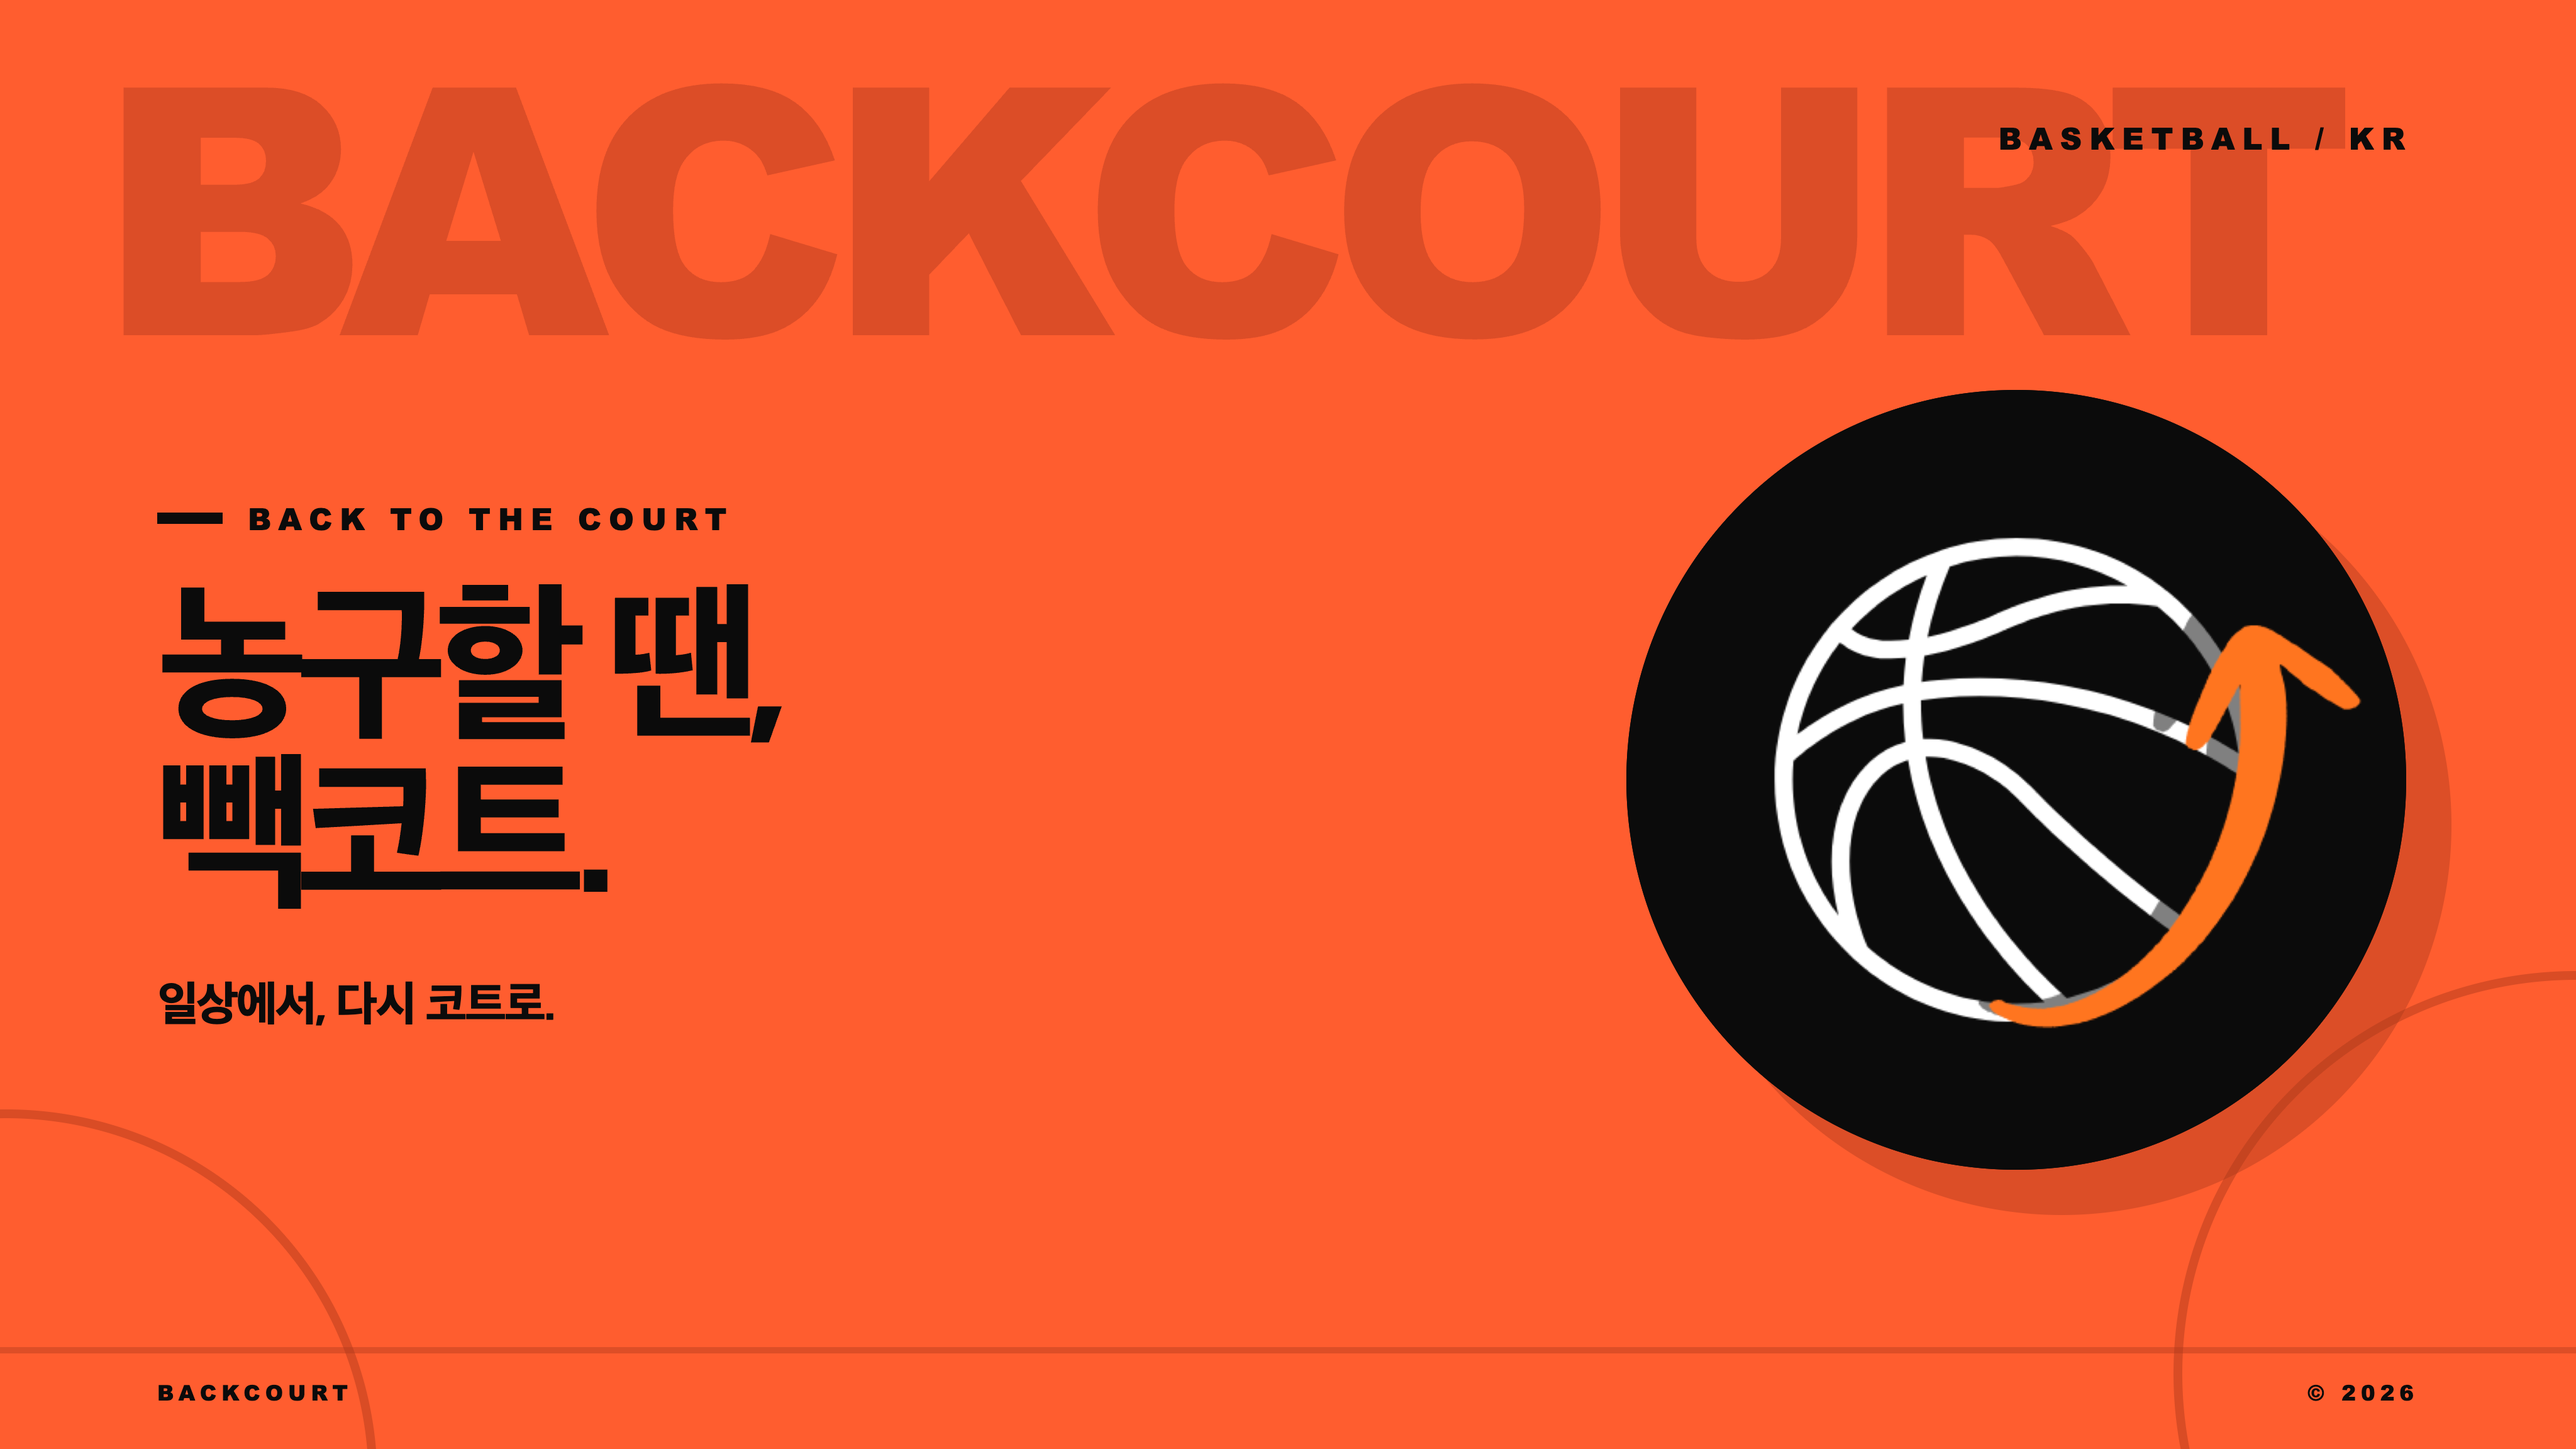
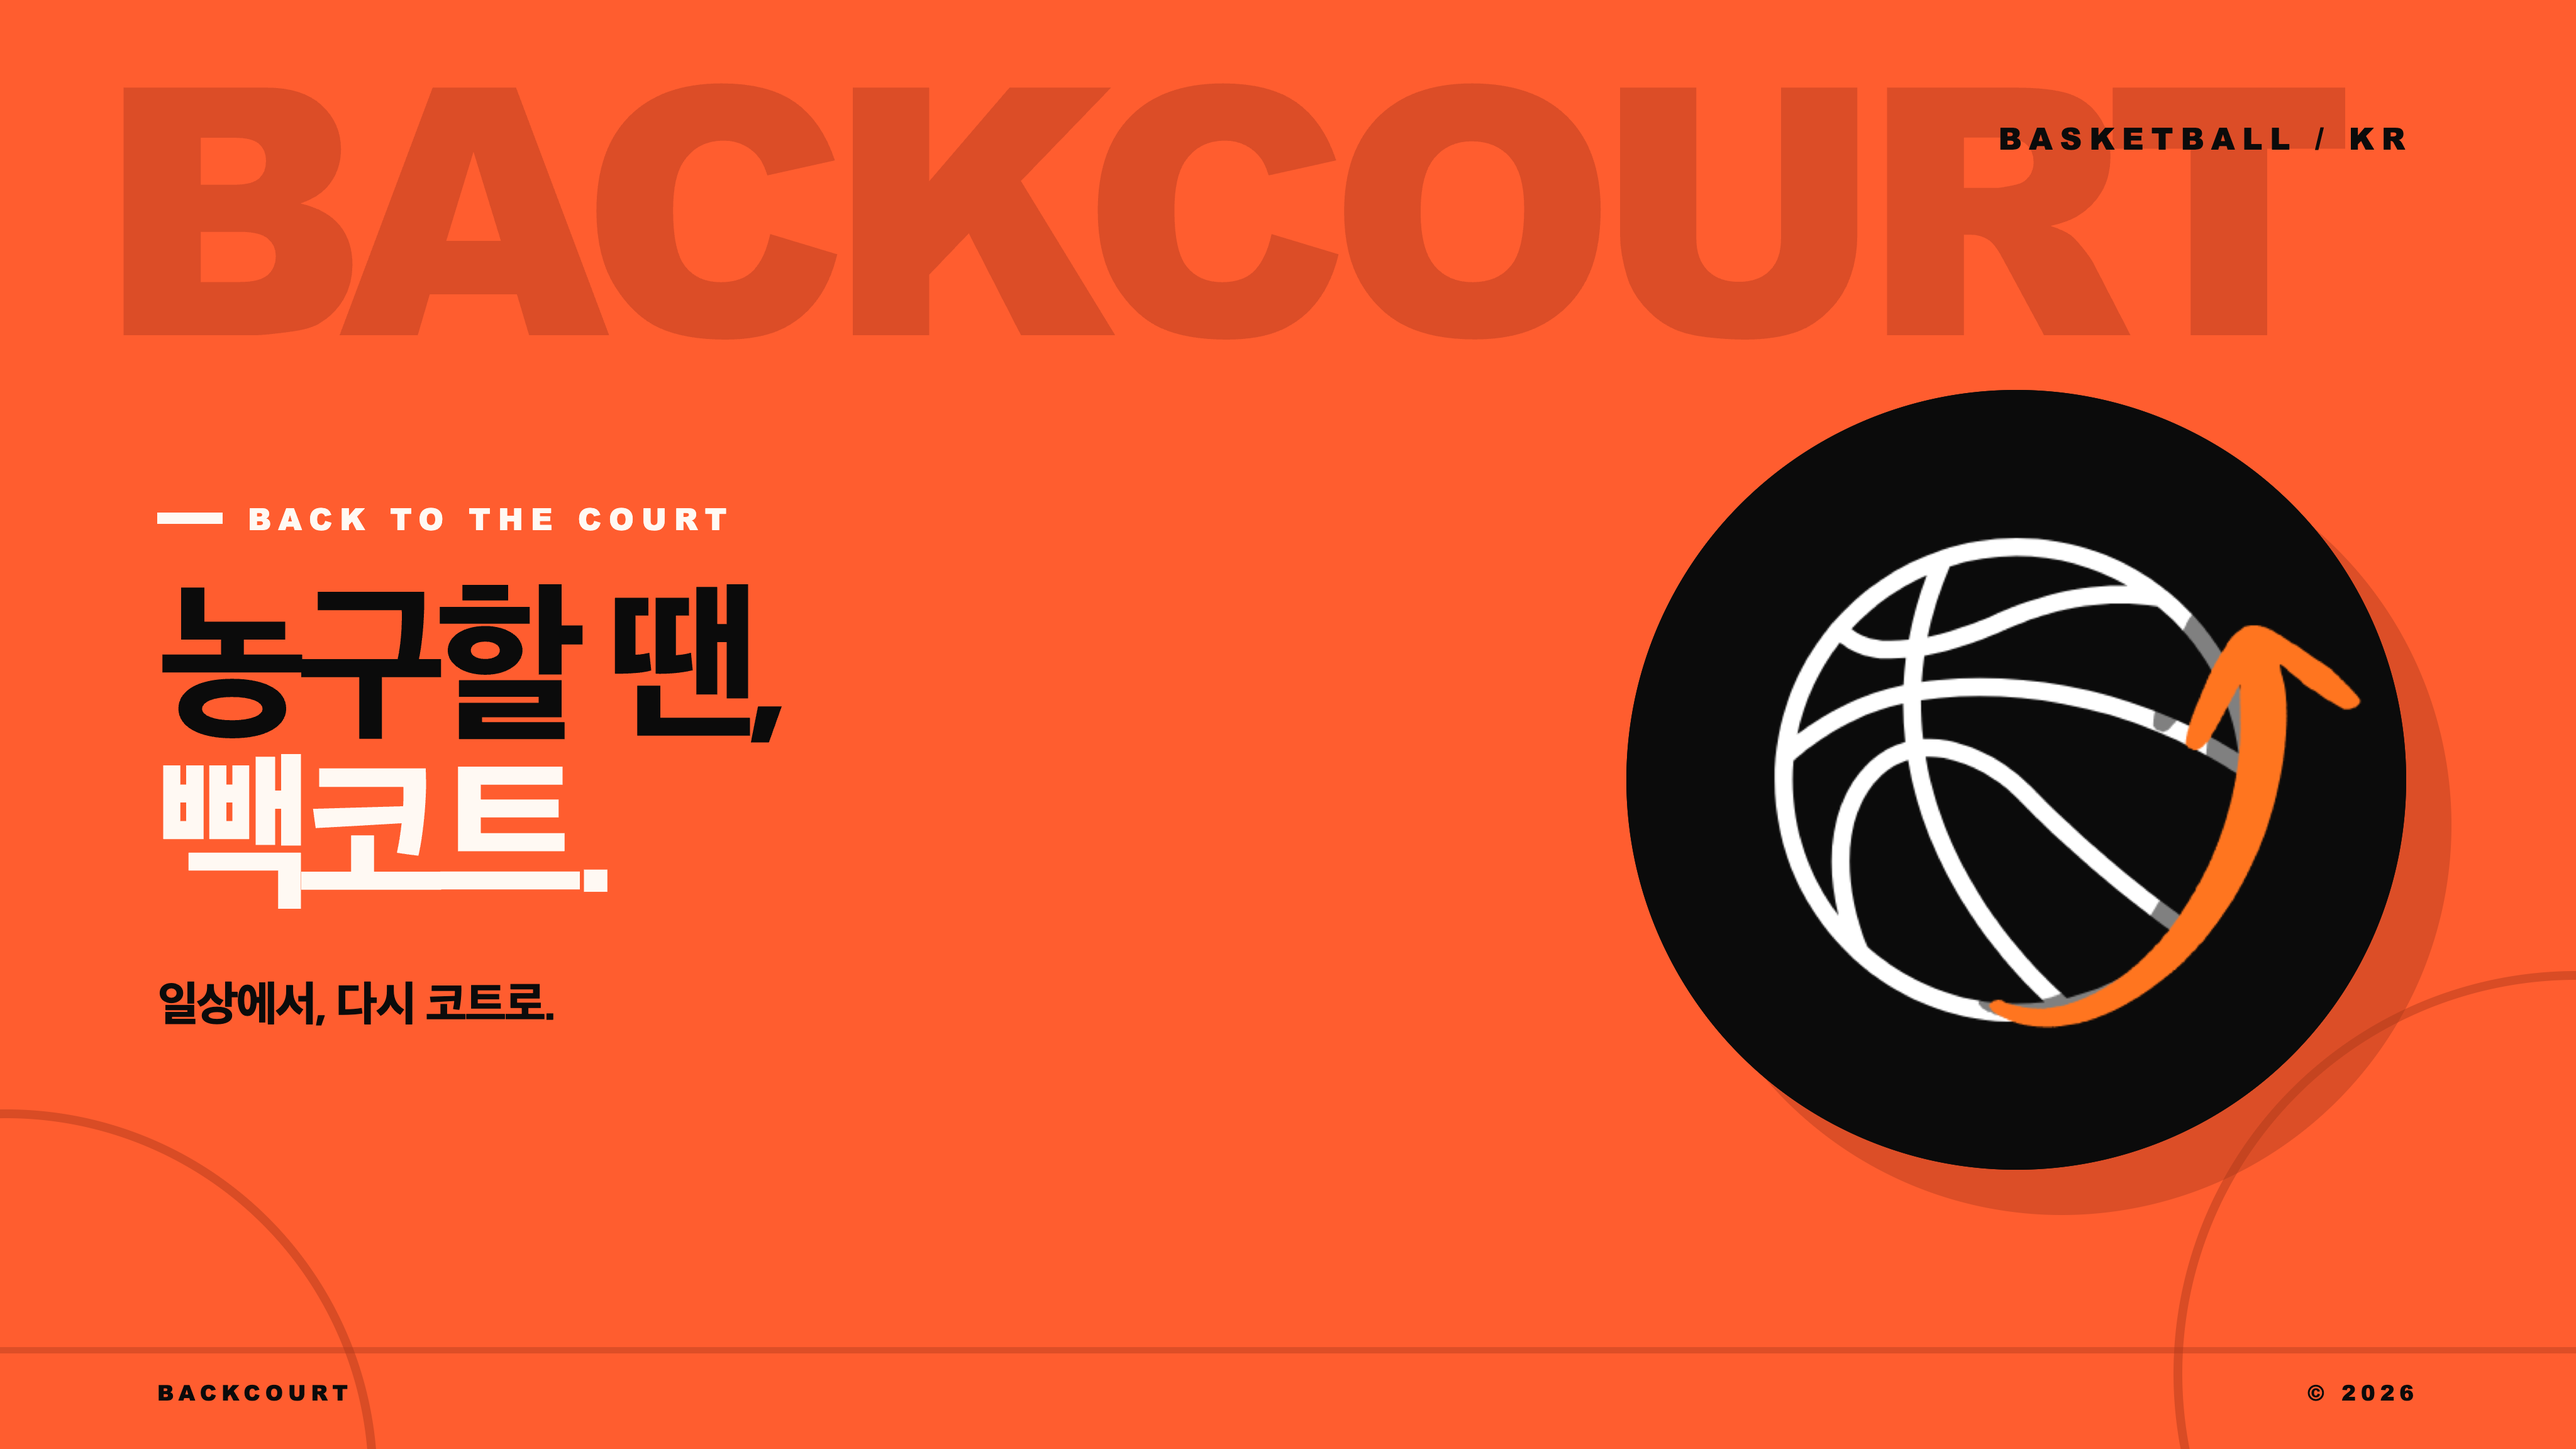
Add white accents to developer header

Changed region(s): [[0.0625, 0.5, 0.25, 0.625], [0.0625, 0.3438, 0.2812, 0.375]]

diff --git a/Backcourt-Social/developer-header.html b/Backcourt-Social/developer-header.html
@@ -45,6 +45,7 @@
         align-items: center;
         gap: 40px;
         margin: 0 0 78px;
+        color: #fff9f3;
         font-family: "Arial Black", Arial, sans-serif;
         font-size: 48px;
         font-weight: 900;
@@ -55,7 +56,7 @@
         content: "";
         width: 104px;
         height: 18px;
-        background: #0b0b0b;
+        background: #fff9f3;
       }
 
       h1 {
@@ -65,6 +66,8 @@
         line-height: .98;
         letter-spacing: -18px;
       }
+
+      h1 span { color: #fff9f3; }
 
       .tagline {
         margin: 78px 0 0;
@@ -154,7 +157,7 @@
 
       <section class="copy">
         <p class="eyebrow">BACK TO THE COURT</p>
-        <h1>농구할 땐,<br />빽코트.</h1>
+        <h1>농구할 땐,<br /><span>빽코트.</span></h1>
         <p class="tagline">일상에서, 다시 코트로.</p>
       </section>
 
